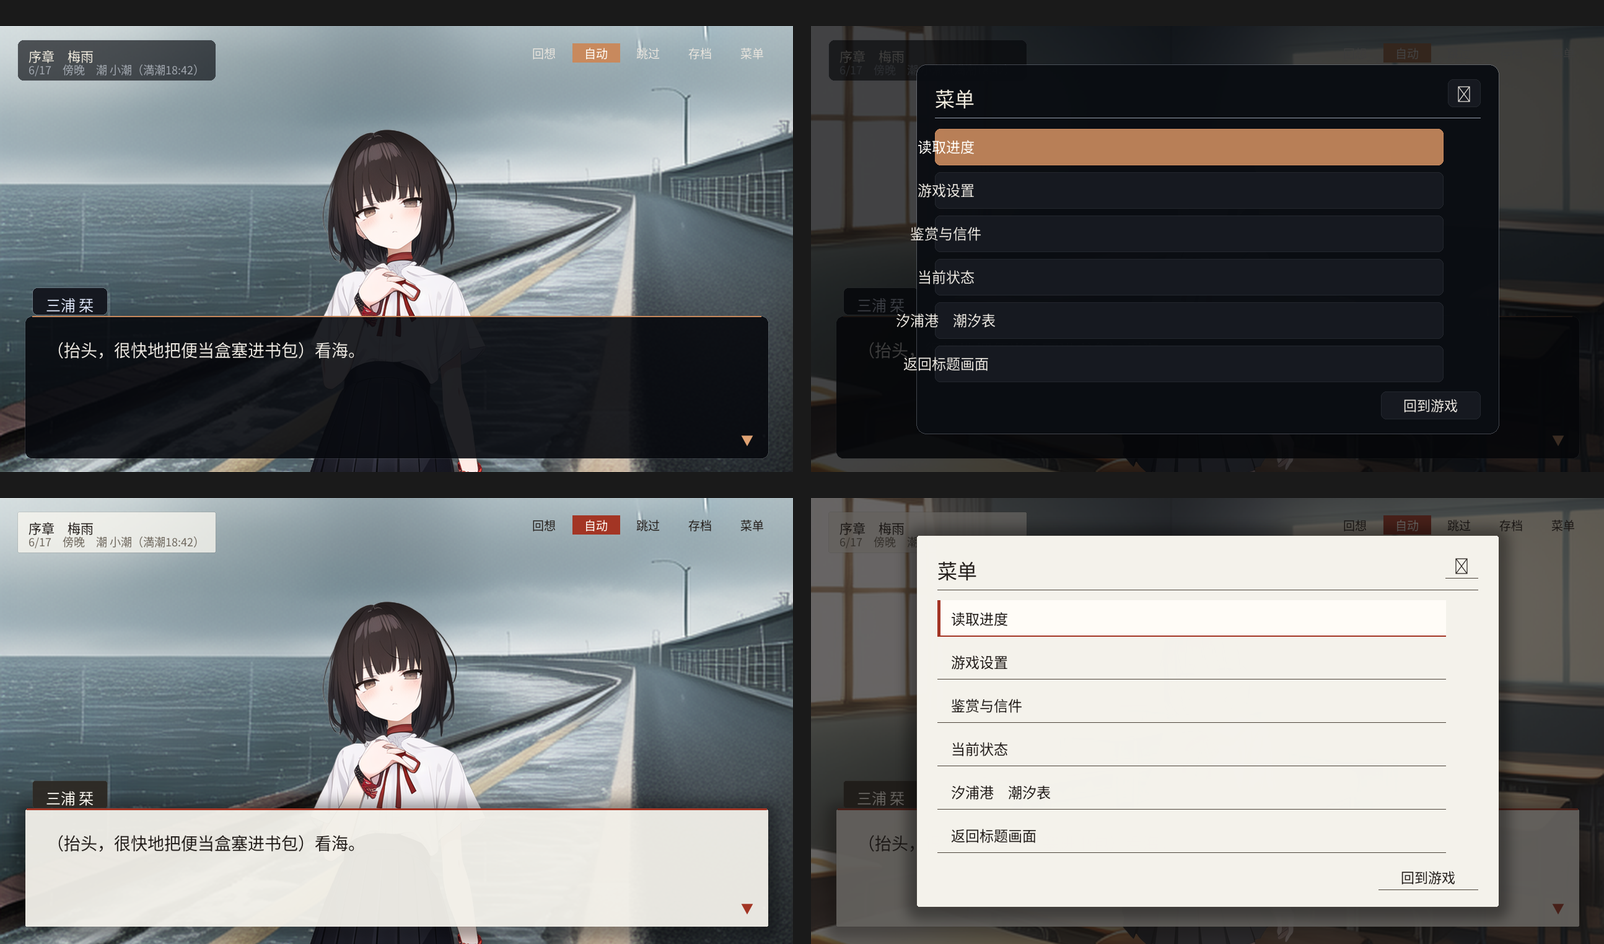
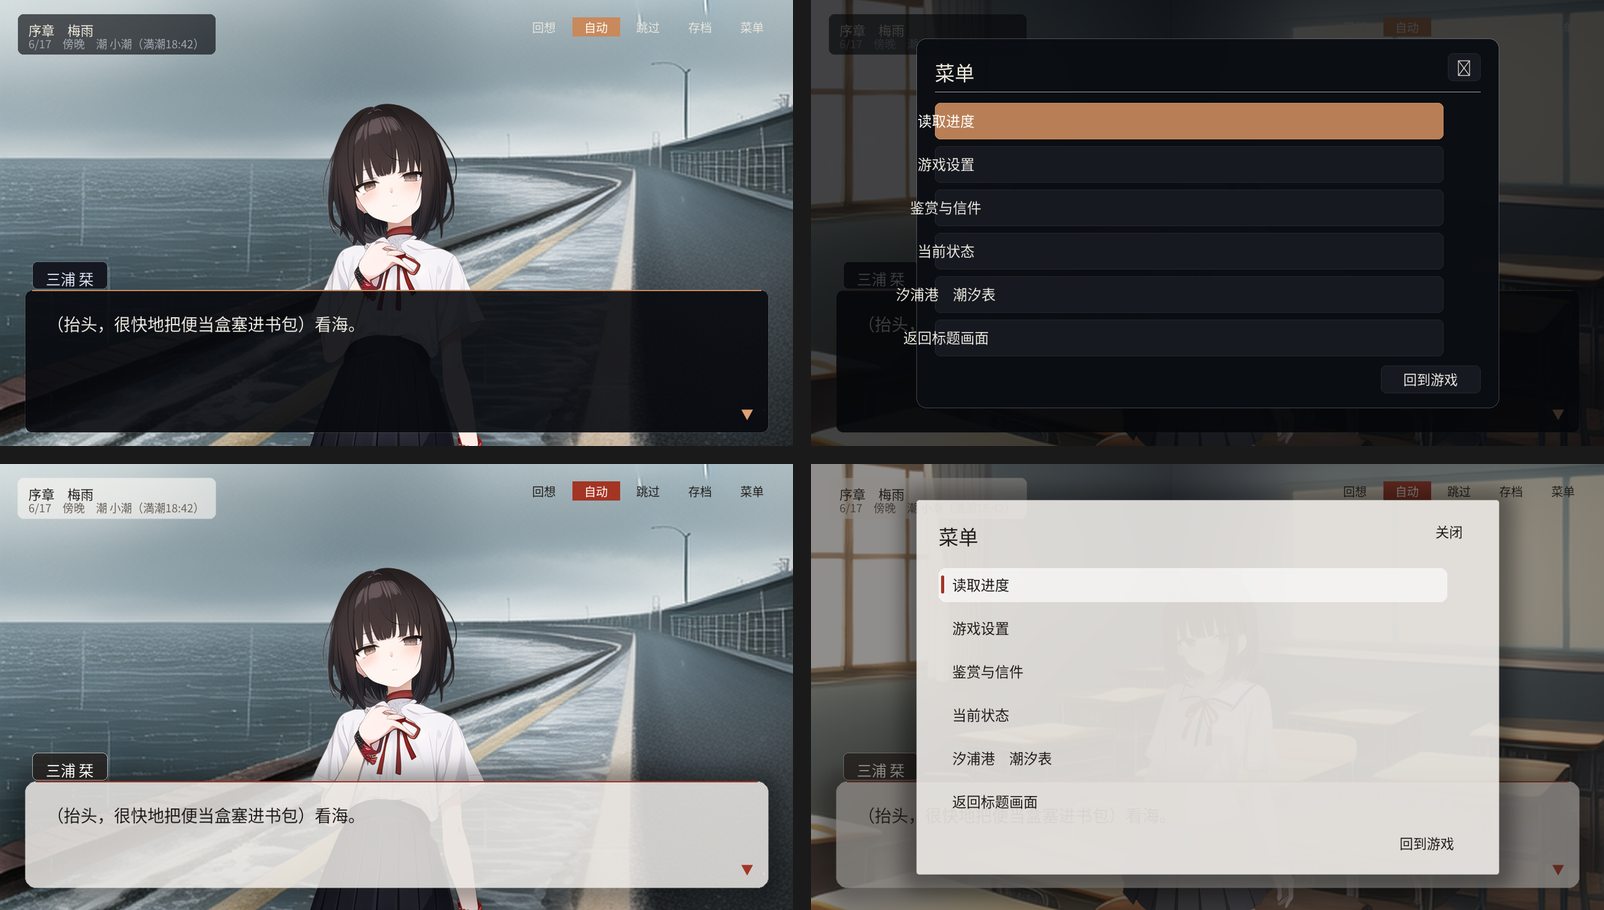
UI 改版 v3：按反馈改成「简洁 / 圆润 / 半透明」的磨砂玻璃
反馈是三条：字跑出来了、要更简洁、边缘要圆润、要半透明的高级感。
逐条改：

## 1. 简洁：面板内不再画任何分隔线
上一版每个菜单项压一条横向细线，7 条线叠起来很碎。现在行与行只靠间距分组，
当前项用一块柔和圆角底 + 朱色左短棒表示。

## 2. 圆润：圆角从 3~4px 放大到 12~22px
R_BOX 18 / R_PANEL 22 / R_BTN 12。上一版按「纸不做大圆角」的思路收得太狠，
磨砂玻璃恰恰要圆润。

## 3. 半透明：面板透出背景，边缘改亮边
C_BOX 0.955→0.840、C_DBOX 0.930→0.800、C_HUD 0.780→0.620，黑幕 0.66→0.50；
描边从「深色线」换成 **1px 白色高光边**（C_LINE 白 0.55）——玻璃感全靠这条边。

## 4. 「字跑出来」的两个真实原因
* 菜单里 7 条分隔线 + 面板几乎不透明，视觉上很挤很碎 —— 已按上面 1、3 处理；
* 弹窗右上角的 `✕`(U+2715) **字体子集里没有这个字形**，实际渲染是空方框。
  已改成 `关闭`（这两个字本来就在用）。README 补了「字体是子集化的，
  别随手引入新字/生僻符号」这条坑。

## 5. 标题画面：改成左侧磨砂卡
墨字压在暗画面上会糊。现在整屏只轻提 0.16，左侧单独一块磨砂卡承载标题与菜单，
右侧保留标题画面的晚霞。顺带修掉了原来「冷蓝黑幕无条件叠加」的问题。

校验：tools/validate.py → 0 ERROR
设计稿：预览/UI设计稿.png 与 预览/UI前后对比.png

diff --git a/Zanka/README.md b/Zanka/README.md
@@ -280,7 +280,7 @@ python3 tools/validate.py       # 必须 0 ERROR
 
 ---
 
-## 九、UI 设计（和纸方案）
+## 九、UI 设计（磨砂玻璃方案）
 
 UI **全部由 GDScript 运行时构建**（工程里只有一个 6 行的 `.tscn`），
 所以样式全部收敛在两个文件里，改这两处就全局生效：
@@ -292,21 +292,38 @@ UI **全部由 GDScript 运行时构建**（工程里只有一个 6 行的 `.tsc
 
 ### 设计方向
 
-对齐企划 05 写的美术基调——「低饱和、暖灰、洗褪色的夏天」「纸质质感、褪色商店街配色、
-手写体标题」。做法是把 UI 从「深色玻璃盒」换成 **和纸底 + 墨字 + 朱色点缀**：
+基础是企划 05 的美术基调——「低饱和、暖灰、洗褪色的夏天」「纸质质感、褪色商店街配色、
+手写体标题」。落到实现上是 **半透明磨砂玻璃 + 墨字 + 朱色点缀**：
 
-* **面板 = 暖白和纸**，圆角很小（`R_BOX=3` / `R_PANEL=4`）——纸不会有大圆角，
-  这一点是从「看着像网页/输入框」里救回质感的关键；
-* **文字 = 暖墨色**（`C_TEXT`），不是纯黑；
-* **强调 = 朱色**（`C_ACCENT`），全界面只有这一处彩色（顶边包边、悬停标记、当前项）；
+* **面板 = 暖白半透明**（`C_BOX` 0.84 / `C_DBOX` 0.80 / `C_HUD` 0.62），
+  背景会透过来，这是「高级感」的来源；
+* **圆角要大**（`R_BOX=18` / `R_PANEL=22` / `R_BTN=12`）——磨砂玻璃不做直角；
+* **边缘是 1px 亮边**（`C_LINE` 白 0.55），不是深色描边。玻璃感全靠这条高光边；
+* **面板内部不画任何分隔线**，靠间距分组（这是「简洁」的关键：
+  上一版每条菜单项压一条横线，7 条线一叠就很碎）；
+* **文字 = 暖墨色**（`C_TEXT`），不是纯黑，压在磨砂底上依然清晰；
+* **强调 = 朱色**（`C_ACCENT`），全界面只有这一处彩色（顶边包边、当前项左短棒）；
 * **按钮分三种**，别再混用：
   | 工厂 | 外观 | 用在哪 |
   |---|---|---|
-  | `Kit.button()` | 淡描边小方块 | `✕`、`回到游戏` 这类孤立动作 |
-  | `Kit.row_button()` | 无框 + 底分隔线，悬停出朱色左标记 | 标题菜单、选项支、弹窗列表（**用方框会像输入框**） |
-  | `Kit.text_button()` | 纯文字，按下朱底纸字 | HUD 上的 回想/自动/跳过/存档/菜单 |
+  | `Kit.button()` | 淡底小圆角块 | `关闭`、`回到游戏` 这类孤立动作 |
+  | `Kit.row_button()` | 平时只有文字；悬停/选中浮出一块柔和圆角底 + 朱色左短棒 | 标题菜单、选项支、弹窗列表 |
+  | `Kit.text_button()` | 纯文字；按下（自动/跳过开启）是一块朱色圆角底 | HUD 上的 回想/自动/跳过/存档/菜单 |
 
-### 和纸颗粒
+> `Kit.row_button()` 的朱色短棒是用 `StyleBoxFlat.border_width_left` 画的，
+> 它会跟着圆角一起被裁剪，所以端头看起来是圆的——不需要额外贴图。
+
+### 一个必须记住的坑：字体是子集化的
+
+中文字体只收录了**出现在项目文本文件里的字**（`tools/make_font.py` 收集）。
+所以：
+
+* **不要在 UI 里随手引入新字**，否则真机上会渲染成豆腐块 □；
+* 这条也适用于符号：弹窗右上角原来是 `✕`(U+2715)，该码位在子集里**没有字形**，
+  实际渲染出来是一个空方框。已改成 `关闭`（这两个字panel里本来就在用）。
+* 确实需要新字时，得重跑 `tools/make_font.py`（依赖 `fontTools`，本机未安装）。
+
+### 纸纹颗粒
 
 `shaders/paper.gdshader` 给面板加极轻的纸纹（细噪点 + 竖向纤维）。
 它**只扰动 RGB、完全不碰 alpha**，所以材质没挂上或编译失败都只是「少了纸纹」，
@@ -315,11 +332,12 @@ UI **全部由 GDScript 运行时构建**（工程里只有一个 6 行的 `.tsc
 ### 改 UI 前先看设计稿
 
 `tools/ui_mockup.py` 用**项目真实的字体、背景图、立绘**，把上述设计令牌与几何
-一比一渲染成 PNG（同一套几何、只换设计变量），所以不用开 Godot 就能快速迭代：
+按同一套几何渲染成 PNG（只换设计变量），所以不用开 Godot 就能快速迭代——
+本次「简洁 / 圆润 / 半透明」就是因为能在几秒内出一版稿才敢反复试：
 
 ```bash
-python3 tools/ui_mockup.py                  # 当前设计
-python3 tools/ui_mockup.py --variant paper  # 和纸方案
+python3 tools/ui_mockup.py                    # 当前设计（旧）
+python3 tools/ui_mockup.py --variant frosted  # 磨砂玻璃方案（现行）
 python3 tools/ui_mockup.py --variant all    # 两套都出（做前后对比）
 # 输出在 tools/_ui/，成品设计稿见 预览/UI设计稿.png
 ```
